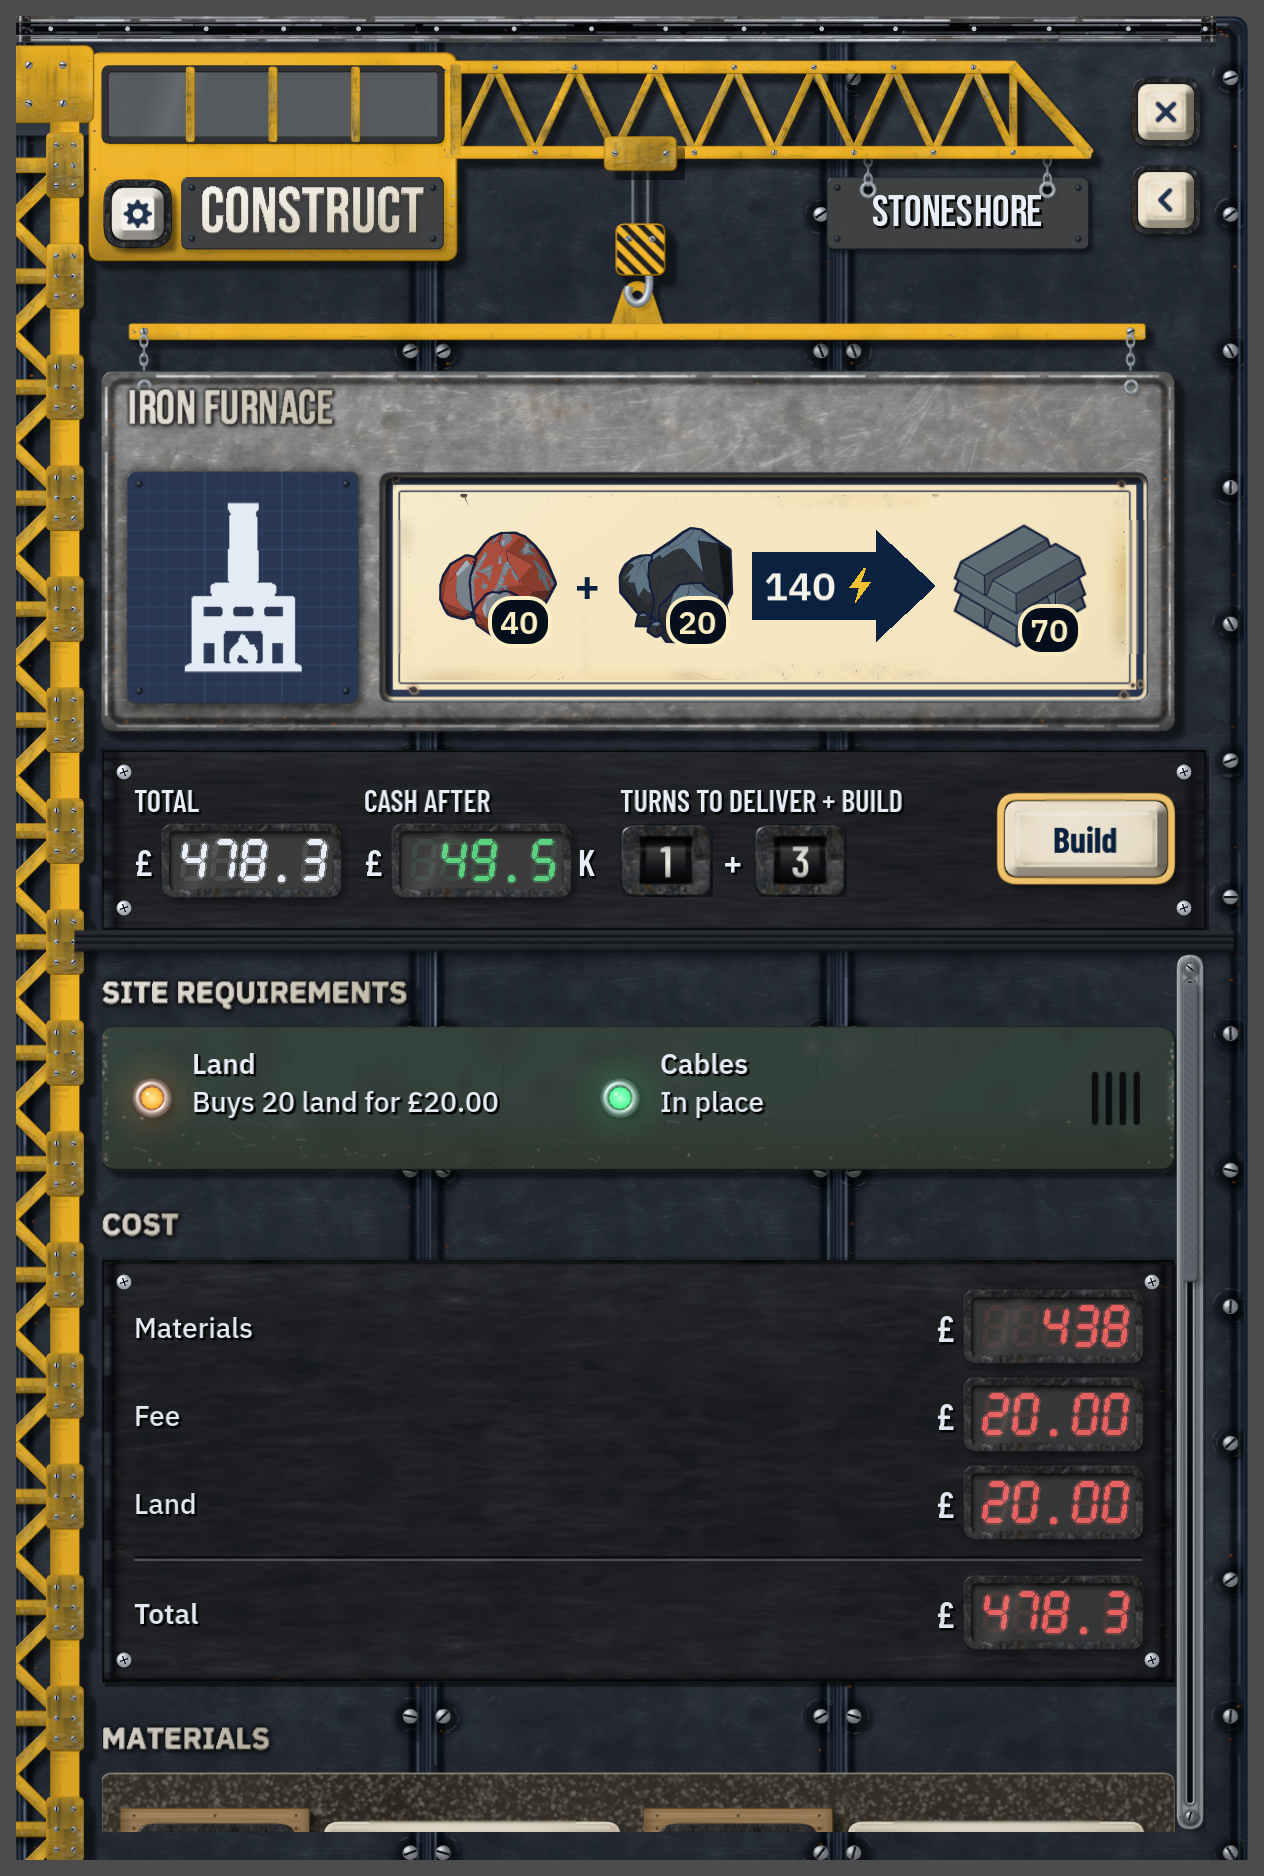
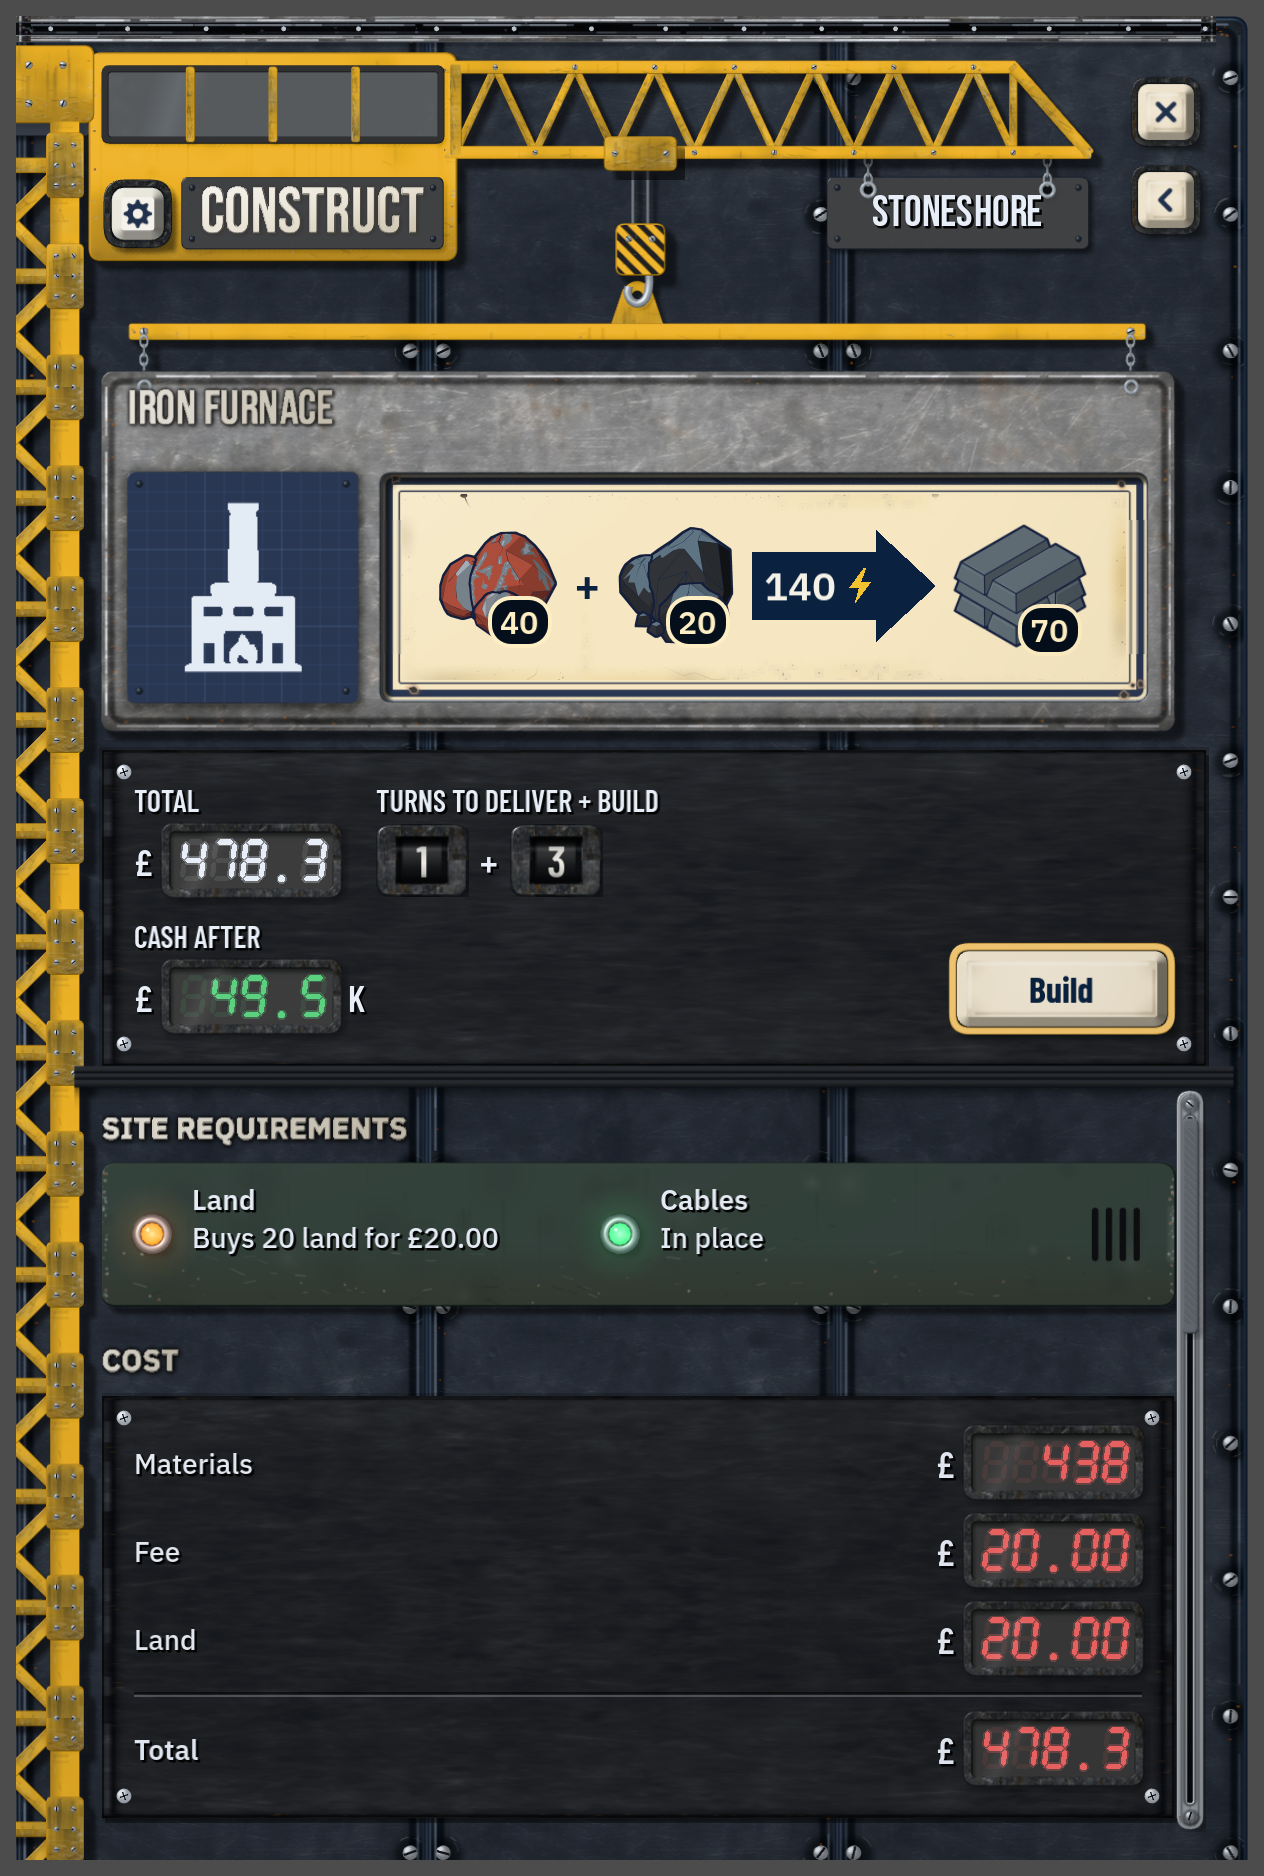
Construct panel DS2: Cash after on a second row, Build low; the licence needs three turns of profit
The build order's verdict puts Total and the turns to deliver and build on the first row, Cash after under
Total on a second, and the Build key low at the right beside it. With the room back, the columns keep their
18 px gaps and the key its 112 px.

The Government Import/Export License now asks for £75 pre-tax profit a turn for 3 turns in a row (Unit
"3 turns" on its Profit row). ResearchState keeps the last twelve turns' pre-tax profit, recorded once per turn
in NARRATIVE and saved (older saves start the history afresh). A start's free opening stock (Metal Magnate:
£115 and £118 on turns 1 and 2, then £32) no longer unlocks it on turn 1. Profit rows without a turn count
keep the single-turn test.

Changed region(s): [[0.0617, 0.4019, 0.9565, 0.9893], [0.2777, 0.4019, 0.7097, 0.4947], [0.5862, 0.7111, 0.6171, 0.742]]

diff --git a/price-of-everything-0.1/docs/construct-ds2-plan.md b/price-of-everything-0.1/docs/construct-ds2-plan.md
@@ -113,7 +113,7 @@ Each body is reviewed against §2's scenarios, up to three rounds, as the tile v
 **Built so far (27 September 2026).**
 
 - **The panel.** `scripts/construct_ds2/construct_ds2.gd` extends `construct_panel_v2.gd`: every way in, the state, Confirm and the handles the tutorial and tests look up are the parent's; the shell and the build order are its own. `bottom_menu.gd` builds it in place of today's panel while the flag is on and rebuilds it when the flag flips (`_construct_v2_script`, `_on_construct_ds2_changed`), under the same name, `ConstructPanelV2`.
-- **The build order** (`scripts/construct_ds2/build_order.gd`): the site board on the hook (the name raised, the icon printed flat as a blueprint from its emblem's silhouette, `flat_print.gdshader`, the recipe on an enamel sign in the board's recess), the verdict on the cabin desk (Total and Cash after on LEDs, Turns to deliver + build on two drums, the delivery's hover naming the source, the Build key named `BuildConfirmButton`: a plain cream key in a brass bezel, not guarded (owner, 27 September; render `construct_key_brass`, set constructkey 468, drawn by `cream_key.gd` with `rim = "brass"`); refused, it prints red and a press makes the blocking part glow, the money or the land's row or the requirement, `flag_blocker`), the seam; then the requirements on the feeder pillar (two lamps a pillar), the cost in the cabin, the materials yard (a good on its pallet in its well, a white label with what is on the tile and elsewhere, the Materials from knob in the sixth bay, which sets `MatchState.pending_build_material_source`), the outlook on the programme board and the land lot. The Build key's refusal is the quote's first block (`_v3_confirm_block_reason`).
+- **The build order** (`scripts/construct_ds2/build_order.gd`): the site board on the hook (the name raised, the icon printed flat as a blueprint from its emblem's silhouette, `flat_print.gdshader`, the recipe on an enamel sign in the board's recess), the verdict on the cabin desk (Total and Turns to deliver + build on two drums on the first row, Cash after under Total on the second (owner, 28 September), the delivery's hover naming the source, the Build key low at the right beside Cash after, named `BuildConfirmButton`: a plain cream key in a brass bezel, not guarded (owner, 27 September; render `construct_key_brass`, set constructkey 468, drawn by `cream_key.gd` with `rim = "brass"`); refused, it prints red and a press makes the blocking part glow, the money or the land's row or the requirement, `flag_blocker`), the seam; then the requirements on the feeder pillar (two lamps a pillar), the cost in the cabin, the materials yard (a good on its pallet in its well, a white label with what is on the tile and elsewhere, the Materials from knob in the sixth bay, which sets `MatchState.pending_build_material_source`), the outlook on the programme board and the land lot. The Build key's refusal is the quote's first block (`_v3_confirm_block_reason`).
 - **Renders** (`tools/button_mockup/cluster.html`, inside the `constructlot` block so they share the study's parts; the study still renders byte identical): `constructhead` (464: `construct_head`, `construct_mast`, `construct_placard`, `construct_trolley`, `construct_rig`, `construct_hoarding`), `constructboard` (465: `construct_board`, `guard_build` and its pressed and cover layers), `constructyard` (466: `construct_yard`, `construct_pallet`, `construct_pillar`, `construct_lot`, `construct_slab`, `construct_stake`, `construct_tape`), `constructcat` (467: `construct_settings` and `_pressed`, `construct_catplate`, `construct_card`, `construct_tag`). Each is placed by the game at its `origin` in layout px.
 - **The catalogue** (`scripts/construct_ds2/catalogue.gd`, 27 September): the black control plate under the crane, its tab rising under the jib with the search set into its dark glass, the nine category keys (the tile view's latching keys, one latched while its category is shown) in two rows; an enamel site board per building, two to a row (the blueprint icon, the name, the price on a red LED, `quote()`'s total for the building on the site), dimmed with the reason on its hover when no recipe can be built there or the money is short; the building opened across the width with its recipes hung under it on chains as enamel tags (the name it will take, the recipe condensed or expanded as the Construct setting says). The goods filter shows as a line with a Show all key (finding 6). Names kept: `BuildingCard_<id>`, `RecipeRow_<id>`, `Filter_<category>`.
 - **Land** follows the Construct setting Auto-buy land until the player chooses on the build order: with it off and the tile short, the Land row says what it would buy and offers a **Buy land** key (the old confirm's land tickbox, `buy_land`).

diff --git a/price-of-everything-0.1/docs/ds2-owner-decisions.md b/price-of-everything-0.1/docs/ds2-owner-decisions.md
@@ -72,7 +72,8 @@ The rulings the owner made while the top bar, the updates dock and the tile view
 - **Recipe diagrams** (27 September): a single row never draws goods under 48 px; three or more goods on a side go into two rows (the short row centred), a side of one or two beside them drawn larger. The recipe's name sits outside the diagram: on a catalogue tag in a tab rising between its chains, 15 px in from each.
 - **The catalogue's building card** (27 September) is a blue shipping container with a plate on its left end for the icon, the name and the price, the price level with the foot of the icon. A recipe's diagram glows while hovered. The construction lot is the default construct panel. A card that can't be built there or paid for is grey; a price is white while the cash covers it twice over, red below (the build order's Total too).
 - **The settings key** (27 September) is a white plastic key with a bevel and a navy gear. Since 28 September it stands on the crane's cab, left of CONSTRUCT, and the cab is four window panes wide to hold it.
-- **Turns to deliver** (28 September): the verdict shows the materials' delivery beside the build on drums ("Turns to deliver + build"), so a cheaper, slower source (the global market) shows its wait next to its price.
+- **Turns to deliver** (28 September): the verdict shows the materials' delivery beside the build on drums ("Turns to deliver + build"), so a cheaper, slower source (the global market) shows its wait next to its price. Cash after sits on a second row under Total and the Build key sits low beside it.
+- **The Import/Export License** (28 September) needs £75 pre-tax profit a turn for 3 turns in a row (was £50 in one turn), so a start's free opening stock cannot unlock it on turn 1.
 - **Every name in `docs/building-names.md` is approved as the table proposed it**, including the 19 rows that were marked for a second look (Limestone Mine, Sand Mine, Hairpin Stator Motor Assembly Plant and the rest). Only the unloaded farm recipes remain open.
 - **Building icons**: the polished relief with its soft grey edge looked wrong; a simple emboss or flat print (a blueprint) is being compared.
 
